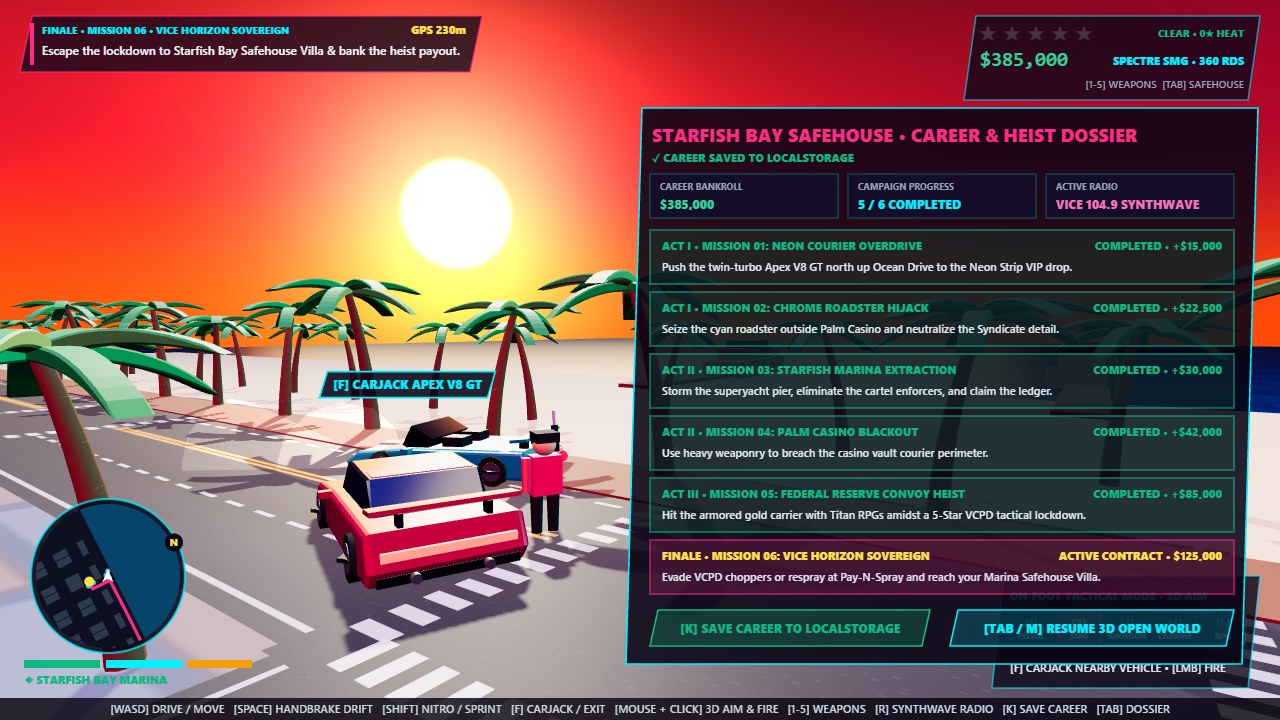
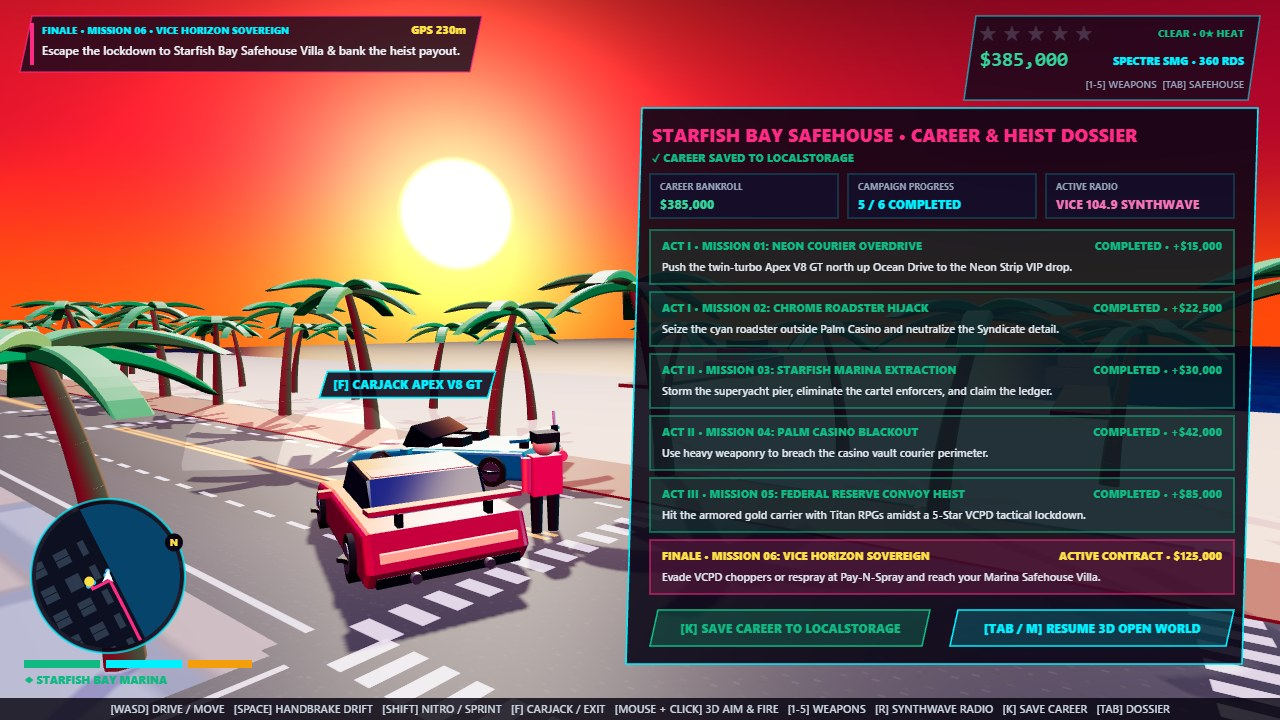
Polish Safehouse Dossier HUD layout and remove unused starter files

Changed region(s): [[0.75, 0.7944, 1.0, 0.9778]]

diff --git a/game/src/render-hud.js b/game/src/render-hud.js
@@ -34,7 +34,9 @@ export function renderHud2D(ctx, state) {
   renderBottomLeftRadar(ctx, state);
 
   // 5. Bottom-Right Sleek Automotive Tachometer / Speedometer & Synthwave Radio Gauge
-  renderBottomRightTelemetry(ctx, state);
+  if (!state.safehouseModalOpen) {
+    renderBottomRightTelemetry(ctx, state);
+  }
 
   // 6. Temporary Event Banner (Mission Passed / Pay 'N' Spray / Wanted Alert)
   if (state.hudBanner && state.hudBanner.timer > 0) {
